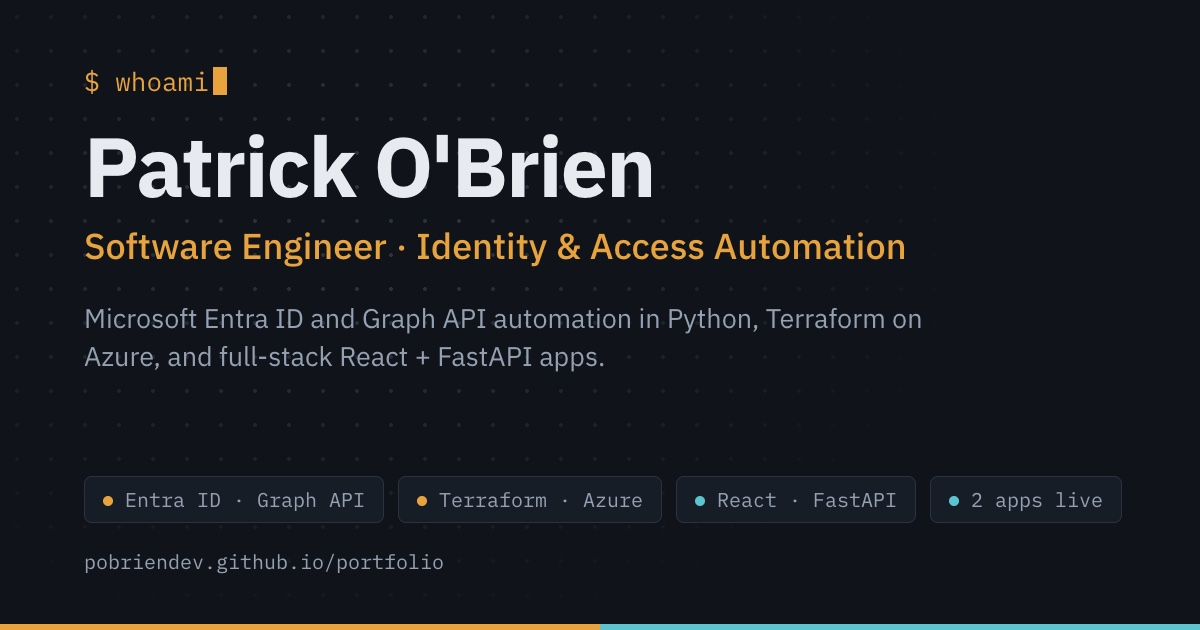
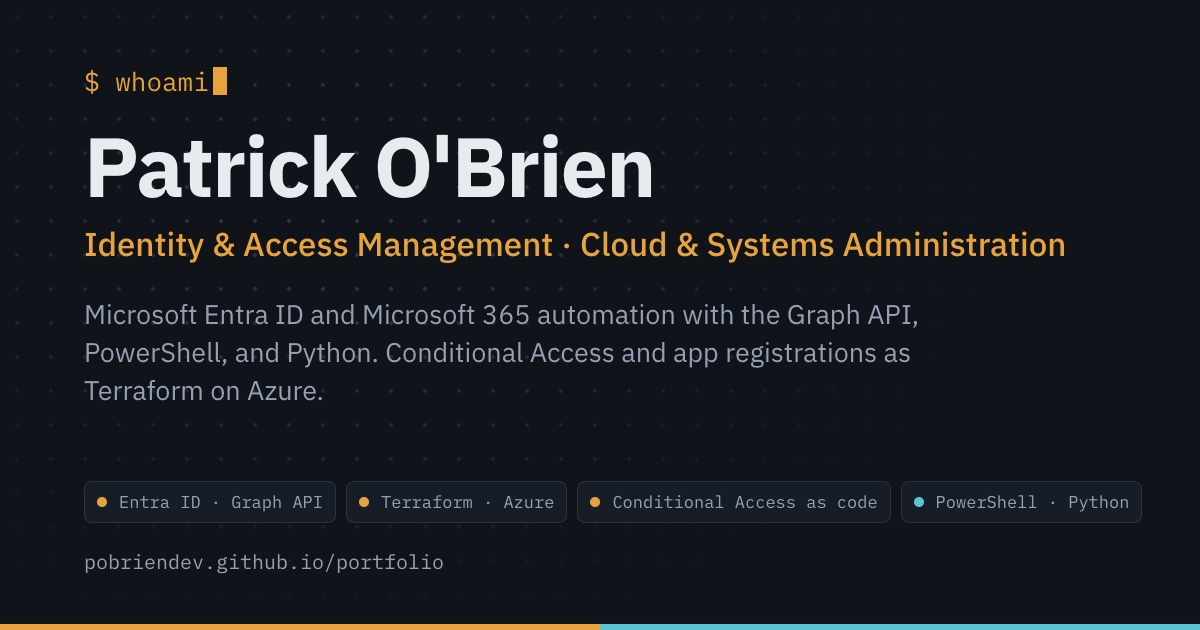
Reframe for IAM, cloud, and systems administration: headline, hero, About, Contact, meta tags, link-preview card

Changed region(s): [[0.0617, 0.4825, 0.7708, 0.6333], [0.0617, 0.3619, 0.8942, 0.4222], [0.0617, 0.7841, 0.9558, 0.8143]]

diff --git a/index.html b/index.html
@@ -3,8 +3,8 @@
 <head>
 <meta charset="UTF-8">
 <meta name="viewport" content="width=device-width, initial-scale=1.0">
-<title>Patrick O'Brien — Software Engineer &middot; Identity &amp; Access Automation</title>
-<meta name="description" content="Patrick O'Brien — software engineer in Baltimore, MD, specializing in identity and access automation. Microsoft Entra ID and Graph API automation in Python, Terraform on Azure, and full-stack React + FastAPI apps.">
+<title>Patrick O'Brien — Identity &amp; Access Management &middot; Cloud &amp; Systems Administration</title>
+<meta name="description" content="Patrick O'Brien — identity and access management, cloud, and systems administration in Baltimore, MD. Microsoft Entra ID and Microsoft 365 automation with the Graph API, PowerShell, and Python; Conditional Access and app registrations as Terraform on Azure; credential and stale-account monitoring.">
 <link rel="canonical" href="https://pobriendev.github.io/portfolio/">
 <link rel="icon" type="image/svg+xml" href="assets/favicon.svg">
 <link rel="icon" type="image/png" sizes="32x32" href="assets/favicon-32.png">
@@ -12,15 +12,15 @@
 <meta name="theme-color" content="#10141A">
 <meta property="og:type" content="website">
 <meta property="og:url" content="https://pobriendev.github.io/portfolio/">
-<meta property="og:title" content="Patrick O'Brien — Software Engineer &middot; Identity &amp; Access Automation">
-<meta property="og:description" content="Microsoft Entra ID and Graph API automation in Python, Terraform on Azure, and full-stack React + FastAPI apps. Projects, live demos, and the bugs fixed along the way.">
+<meta property="og:title" content="Patrick O'Brien — Identity &amp; Access Management &middot; Cloud &amp; Systems Administration">
+<meta property="og:description" content="Microsoft Entra ID and Microsoft 365 automation with the Graph API, PowerShell, and Python. Conditional Access and app registrations as Terraform on Azure, with CI over OIDC. Projects, live demos, and the bugs fixed along the way.">
 <meta property="og:image" content="https://pobriendev.github.io/portfolio/assets/og-image.jpg">
 <meta property="og:image:width" content="1200">
 <meta property="og:image:height" content="630">
-<meta property="og:image:alt" content="Patrick O'Brien, Software Engineer, Identity and Access Automation: Entra ID and Graph API, Terraform on Azure, React and FastAPI">
+<meta property="og:image:alt" content="Patrick O'Brien, Identity and Access Management, Cloud and Systems Administration: Entra ID and Graph API, Terraform on Azure, Conditional Access as code, PowerShell and Python">
 <meta name="twitter:card" content="summary_large_image">
-<meta name="twitter:title" content="Patrick O'Brien — Software Engineer &middot; Identity &amp; Access Automation">
-<meta name="twitter:description" content="Microsoft Entra ID and Graph API automation in Python, Terraform on Azure, and full-stack React + FastAPI apps.">
+<meta name="twitter:title" content="Patrick O'Brien — Identity &amp; Access Management &middot; Cloud &amp; Systems Administration">
+<meta name="twitter:description" content="Microsoft Entra ID and Microsoft 365 automation with the Graph API, PowerShell, and Python. Conditional Access and app registrations as Terraform on Azure.">
 <meta name="twitter:image" content="https://pobriendev.github.io/portfolio/assets/og-image.jpg">
 <link rel="preconnect" href="https://fonts.googleapis.com">
 <link rel="preconnect" href="https://fonts.gstatic.com" crossorigin>
@@ -645,10 +645,11 @@
   <div class="wrap">
     <div class="terminal-line mono" id="terminalLine"></div>
     <h1>Patrick O'Brien</h1>
-    <p class="role">Software Engineer &middot; Identity &amp; Access Automation</p>
+    <p class="role">Identity &amp; Access Management &middot; Cloud &amp; Systems Administration</p>
     <p class="summary">
-      I build identity and access automation and full-stack web apps. Below is the work: live demos,
-      the code, and the bugs I found and fixed along the way.
+      I automate identity and access in Microsoft Entra ID and Azure: onboarding and offboarding,
+      Conditional Access and app registrations as code, and monitoring for expiring credentials and
+      stale accounts. Below is the work: the code, the CI behind it, and the bugs I found and fixed along the way.
     </p>
     <div class="hero-proof mono">
       <span>B.S. Computer Science</span>
@@ -870,11 +871,12 @@ sam@contoso.onmicrosoft.com    Stale Sam     true     2026-01-01    229
     <div class="about-grid">
       <div class="about-text">
         <p>
-          I&rsquo;m a software engineer who automates the identity layer &mdash; and the infrastructure underneath it.
-          At work, that is Python tooling on the Microsoft Graph API that automates onboarding and offboarding
-          in a Microsoft 365 tenant of 400+ users across 100+ properties. On my own time, I codified that same identity
-          layer as Terraform in a personal sandbox tenant, and built and shipped two full-stack apps in React
-          and FastAPI.
+          I work in IT and automate the identity layer &mdash; and the infrastructure underneath it.
+          At work, that is Python and PowerShell tooling on the Microsoft Graph API that automates onboarding and
+          offboarding in a Microsoft 365 tenant of 400+ users across 100+ properties. On my own time, I codified that
+          same identity layer as Terraform in a personal sandbox tenant &mdash; app registrations, Conditional Access
+          policies with guardrails, and monitors for expiring credentials and stale accounts &mdash; and built and
+          shipped two full-stack apps in React and FastAPI.
         </p>
         <p>
           The projects above have the code, the tests, and the live demos. The full history is in the
@@ -888,7 +890,7 @@ sam@contoso.onmicrosoft.com    Stale Sam     true     2026-01-01    229
 <footer id="contact">
   <div class="wrap">
     <h2>Contact</h2>
-    <p class="contact-lead">Open to software engineering and identity &amp; access automation roles. Email is the fastest way to reach me.</p>
+    <p class="contact-lead">Open to identity &amp; access management, cloud, and systems administration roles. Email is the fastest way to reach me.</p>
     <div class="contact-row">
       <a href="mailto:patobrien3590@gmail.com">patobrien3590@gmail.com</a>
       <a href="https://github.com/pobriendev" target="_blank" rel="noopener">github.com/pobriendev</a>

diff --git a/tools/og-card.html b/tools/og-card.html
@@ -26,10 +26,10 @@
   .prompt{ font-family:'IBM Plex Mono',monospace; color:var(--accent); font-size:26px; margin-bottom:26px; }
   .prompt i{ display:inline-block; width:14px; height:28px; background:var(--accent); vertical-align:-4px; margin-left:4px; }
   h1{ margin:0 0 14px; font-size:84px; line-height:1; letter-spacing:-0.02em; font-weight:700; }
-  .role{ color:var(--accent); font-size:36px; font-weight:500; margin:0 0 30px; }
+  .role{ color:var(--accent); font-size:33px; font-weight:500; margin:0 0 30px; }
   .sum{ color:var(--text-dim); font-size:27px; line-height:1.4; max-width:880px; margin:0; }
-  .chips{ margin-top:auto; display:flex; gap:14px; font-family:'IBM Plex Mono',monospace; font-size:20px; color:var(--text-dim); white-space:nowrap; }
-  .chips span{ background:var(--surface); border:1px solid var(--border); border-radius:8px; padding:10px 18px; }
+  .chips{ margin-top:auto; display:flex; gap:10px; font-family:'IBM Plex Mono',monospace; font-size:17px; color:var(--text-dim); white-space:nowrap; }
+  .chips span{ background:var(--surface); border:1px solid var(--border); border-radius:8px; padding:9px 12px; }
   .chips span::before{ content:""; display:inline-block; width:10px; height:10px; border-radius:50%; background:var(--accent); margin-right:12px; vertical-align:1px; }
   .chips span.fs::before{ background:var(--accent-2); }
   .url{ margin-top:26px; font-family:'IBM Plex Mono',monospace; font-size:20px; color:var(--text-dim); }
@@ -39,13 +39,13 @@
 <div class="card"><div class="in">
   <div class="prompt">$ whoami<i></i></div>
   <h1>Patrick O'Brien</h1>
-  <p class="role">Software Engineer &middot; Identity &amp; Access Automation</p>
-  <p class="sum">Microsoft Entra ID and Graph API automation in Python, Terraform on Azure, and full-stack React + FastAPI apps.</p>
+  <p class="role">Identity &amp; Access Management &middot; Cloud &amp; Systems Administration</p>
+  <p class="sum">Microsoft Entra ID and Microsoft 365 automation with the Graph API, PowerShell, and Python. Conditional Access and app registrations as Terraform on Azure.</p>
   <div class="chips">
     <span>Entra ID &middot; Graph API</span>
     <span>Terraform &middot; Azure</span>
-    <span class="fs">React &middot; FastAPI</span>
-    <span class="fs">2 apps live</span>
+    <span>Conditional Access as code</span>
+    <span class="fs">PowerShell &middot; Python</span>
   </div>
   <div class="url">pobriendev.github.io/portfolio</div>
 </div></div>
